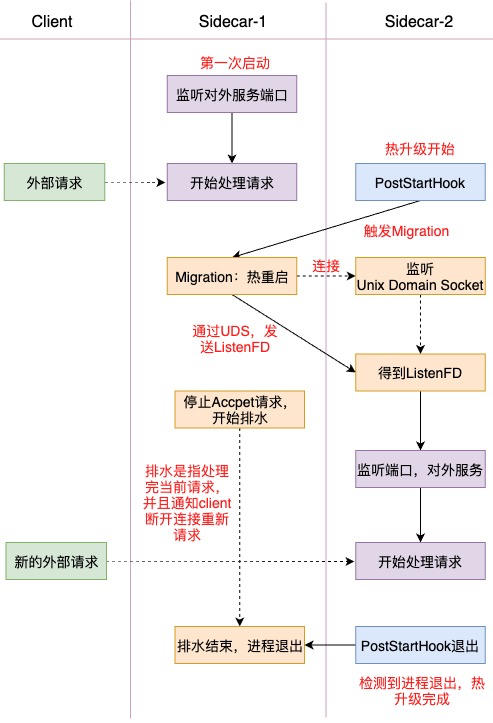
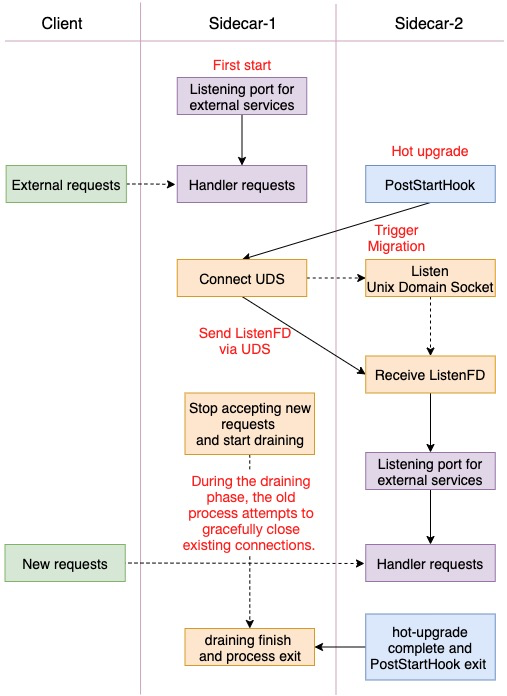
hotupgrade readme

Changed region(s): [[0.0, 0.0, 1.0, 0.9957], [0.0, 0.7241, 0.3043, 0.8448]]

diff --git a/hotupgrade/README.md b/hotupgrade/README.md
@@ -1,12 +1,14 @@
 # sidecarset hotupgrade demo
-## Migration核心逻辑
-SidecarSet热升级机制不仅完成了mesh容器的切换，并且提供了新老版本的协调机制（PostStartHook），但是至此还只是万里长征的第一步，Mesh容器同时还需要提供PostSartHook脚本来完成mesh服务自身的平滑升级（上述Migration过程），如：Envoy热重启、Mosn无损重启。
+## Migration
+The SidecarSet hot upgrade mechanism not only completes the switching of mesh containers and provides a coordination mechanism for old and new versions, but this is only the first step in a long journey. 
+The mesh container also needs to provide a PostStartHook script to complete the hot migration of the mesh service itself (the above Migration process), such as Envoy hot restart and Mosn lossless restart.
 
-mesh容器一般都是通过监听固定端口来对外提供服务，此类mesh容器的migration过程可以概括为：通过UDS传递ListenFD和停止Accpet、开始排水。针对不支持热重启的mesh容器可以参考此过程完成改造，逻辑图如下：
+The migration process of such mesh containers can be summarized as follows: send ListenFD via UDS and stop accepting new requests, start draining. 
+For mesh containers that do not support migration you can refer to this process to complete the rebuilding. The logic diagram is as follows:
 
 ![migration](img/migration.png)                             
 
-## 实践
+## Examples
 ### 1. create sidecarSet
 kubectl apply -f config/sidecarset.yaml
 ```
@@ -25,10 +27,8 @@ spec:
       lifecycle:
         postStart:
           exec:
-            # If the environment variable SIDECARSET_VERSION=1, this is the first time sidecar container has been started, and it exit without doing anything
-            # If the environment variable SIDECARSET_VERSION>1, indicates that this is a hot upgrade of sidecar container,
-            # then the script needs to complete the migration in the hot upgrade
             command:
+              - /bin/sh
               - /migrate.sh
       upgradeStrategy:
         upgradeType: HotUpgrade
